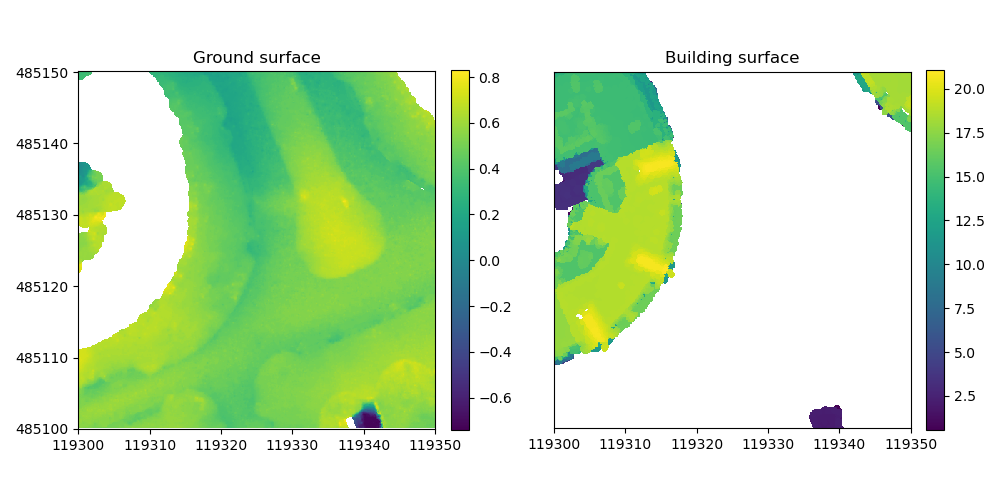
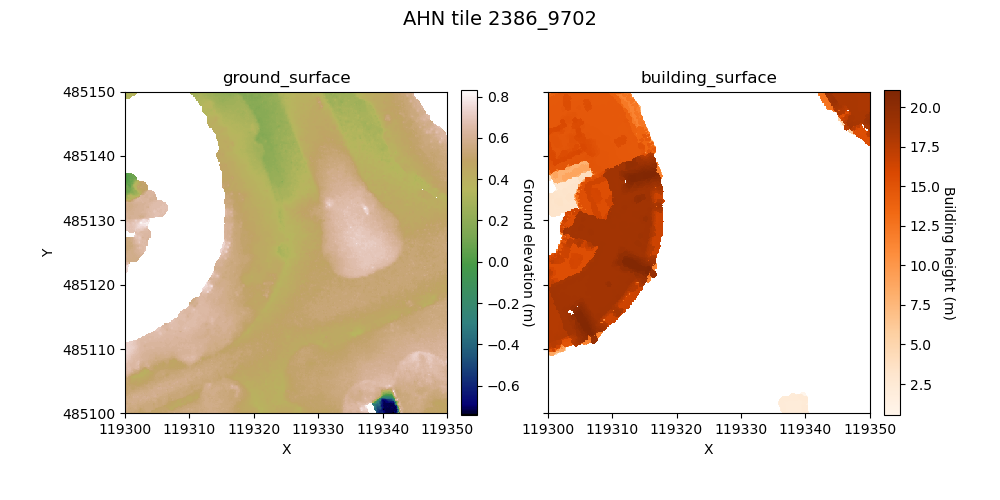
Updated visualisations in notebooks.

diff --git a/src/utils/plot_utils.py b/src/utils/plot_utils.py
@@ -159,6 +159,23 @@ def plot_bgt(tilecode, building_file=None, road_file=None, point_file=None,
         plt.show()
 
 
+def plot_bgt_and_cloudslice(tilecode, las_file, ahn_reader,
+                            building_file=None, road_file=None,
+                            point_file=None, plane_height=1.5,
+                            hide_noise=False):
+    fig, (ax1, ax2) = plt.subplots(1, 2, figsize=(10, 5.5))
+    plot_bgt(tilecode, building_file, road_file, point_file,
+             title='BGT data', ax=ax1, legend_below=True)
+    plot_cloud_slice(las_file, ahn_reader, plane_height=plane_height,
+                     hide_noise=hide_noise, title='LAS labels', ax=ax2,
+                     legend_below=True)
+    ax2.set_yticklabels([])
+    ax2.yaxis.label.set_visible(False)
+    fig.suptitle(f'Tile {tilecode}', fontsize=14)
+    fig.subplots_adjust(top=0.95)
+    plt.show()
+
+
 def plot_ahn_surface(ahn_tile, surf='ground_surface', ax=None, cbar_pad=0.04):
     cmap = {'ground_surface': 'gist_earth',
             'building_surface': 'Oranges'}
@@ -210,7 +227,8 @@ def plot_ahn_merged(tilecode, ahn_reader):
     plt.show()
 
 
-def plot_buildings_ahn_bgt(tilecode, ahn_reader, building_file, offset=1):
+def plot_buildings_ahn_bgt(tilecode, ahn_reader, building_file, offset=1,
+                           show_elevation=True, offset_only=True, title=None):
     ahn_tile = ahn_reader.filter_tile(tilecode)
     buildings = bgt_utils.get_polygons(building_file, tilecode)
     if offset > 0:
@@ -224,16 +242,24 @@ def plot_buildings_ahn_bgt(tilecode, ahn_reader, building_file, offset=1):
 
     fig, ax = plt.subplots(1, figsize=(7, 5), constrained_layout=True)
 
-    cmap = mcolors.LinearSegmentedColormap.from_list('sg', ['lightgrey']*2)
+    if show_elevation:
+        plot_ahn_surface(
+            ahn_tile, surf='building_surface', ax=ax, cbar_pad=0.04)
+        if title is None:
+            title = 'Building footprints and elevation'
+    else:
+        cmap = mcolors.LinearSegmentedColormap.from_list('sg', ['lightgrey']*2)
+        ax.imshow(ahn_tile['building_surface'],
+                  extent=[x_min, x_max, y_min, y_max],
+                  interpolation='none', cmap=cmap)
+        dummy = patches.Patch(color='lightgrey', label='AHN surface')
+        if title is None:
+            title = 'Building footprints'
 
-    ax.imshow(ahn_tile['building_surface'],
-              extent=[x_min, x_max, y_min, y_max],
-              interpolation='none', cmap=cmap)
-    dummy = patches.Patch(color='lightgrey', label='AHN surface')
-
-    for poly in [Polygon(bld) for bld in buildings]:
-        x, y = poly.exterior.xy
-        ax.plot(x, y, c=bgt_colors['pand_poly'], label='BGT polygon')
+    if not offset_only:
+        for poly in [Polygon(bld) for bld in buildings]:
+            x, y = poly.exterior.xy
+            ax.plot(x, y, c=bgt_colors['pand_poly'], label='BGT polygon')
     for poly in buildings_ofs:
         x, y = poly.exterior.xy
         ax.plot(x, y, c=bgt_colors['pand_poly'], linestyle='--',
@@ -244,7 +270,7 @@ def plot_buildings_ahn_bgt(tilecode, ahn_reader, building_file, offset=1):
                             fill=False)
     ax.add_patch(box)
 
-    ax.set_title(f'Buildings tile {tilecode}')
+    ax.set_title(title)
     ax.set_xlabel('X')
     ax.set_ylabel('Y')
     ax.set_xticks(range(x_min, x_max+1, 10))
@@ -252,11 +278,12 @@ def plot_buildings_ahn_bgt(tilecode, ahn_reader, building_file, offset=1):
     ax.set_yticks(range(y_min, y_max+1, 10))
     ax.set_yticklabels(range(y_min, y_max+1, 10))
 
-    handles, labels = ax.get_legend_handles_labels()
-    by_label = dict(zip(labels, handles))
-    by_label[dummy.get_label()] = dummy
-    ax.legend(by_label.values(), by_label.keys(),
-              loc='center left', bbox_to_anchor=(1, 0.5))
+    if not show_elevation:
+        handles, labels = ax.get_legend_handles_labels()
+        by_label = dict(zip(labels, handles))
+        by_label[dummy.get_label()] = dummy
+        ax.legend(by_label.values(), by_label.keys(),
+                  loc='center left', bbox_to_anchor=(1, 0.5))
 
     padding = 2.5
     ax.set_xlim((x_min - padding, x_max + padding))

diff --git a/notebooks/README.md b/notebooks/README.md
@@ -13,3 +13,5 @@ These jupyter notebooks serve as a tutorial and demonstration of the tools in th
 [4. Pole-like objects](4.%20Pole-like%20objects.ipynb) -- labelling objects such as trees, street lights, and traffic signs using BGT data.
 
 [5. Region growing](5.%20Region%20growing.ipynb) -- two region growing implementations for the refinement of labeled objects.
+
+[Visualisations](Visualisations.ipynb) -- examples of different data visualisations.
